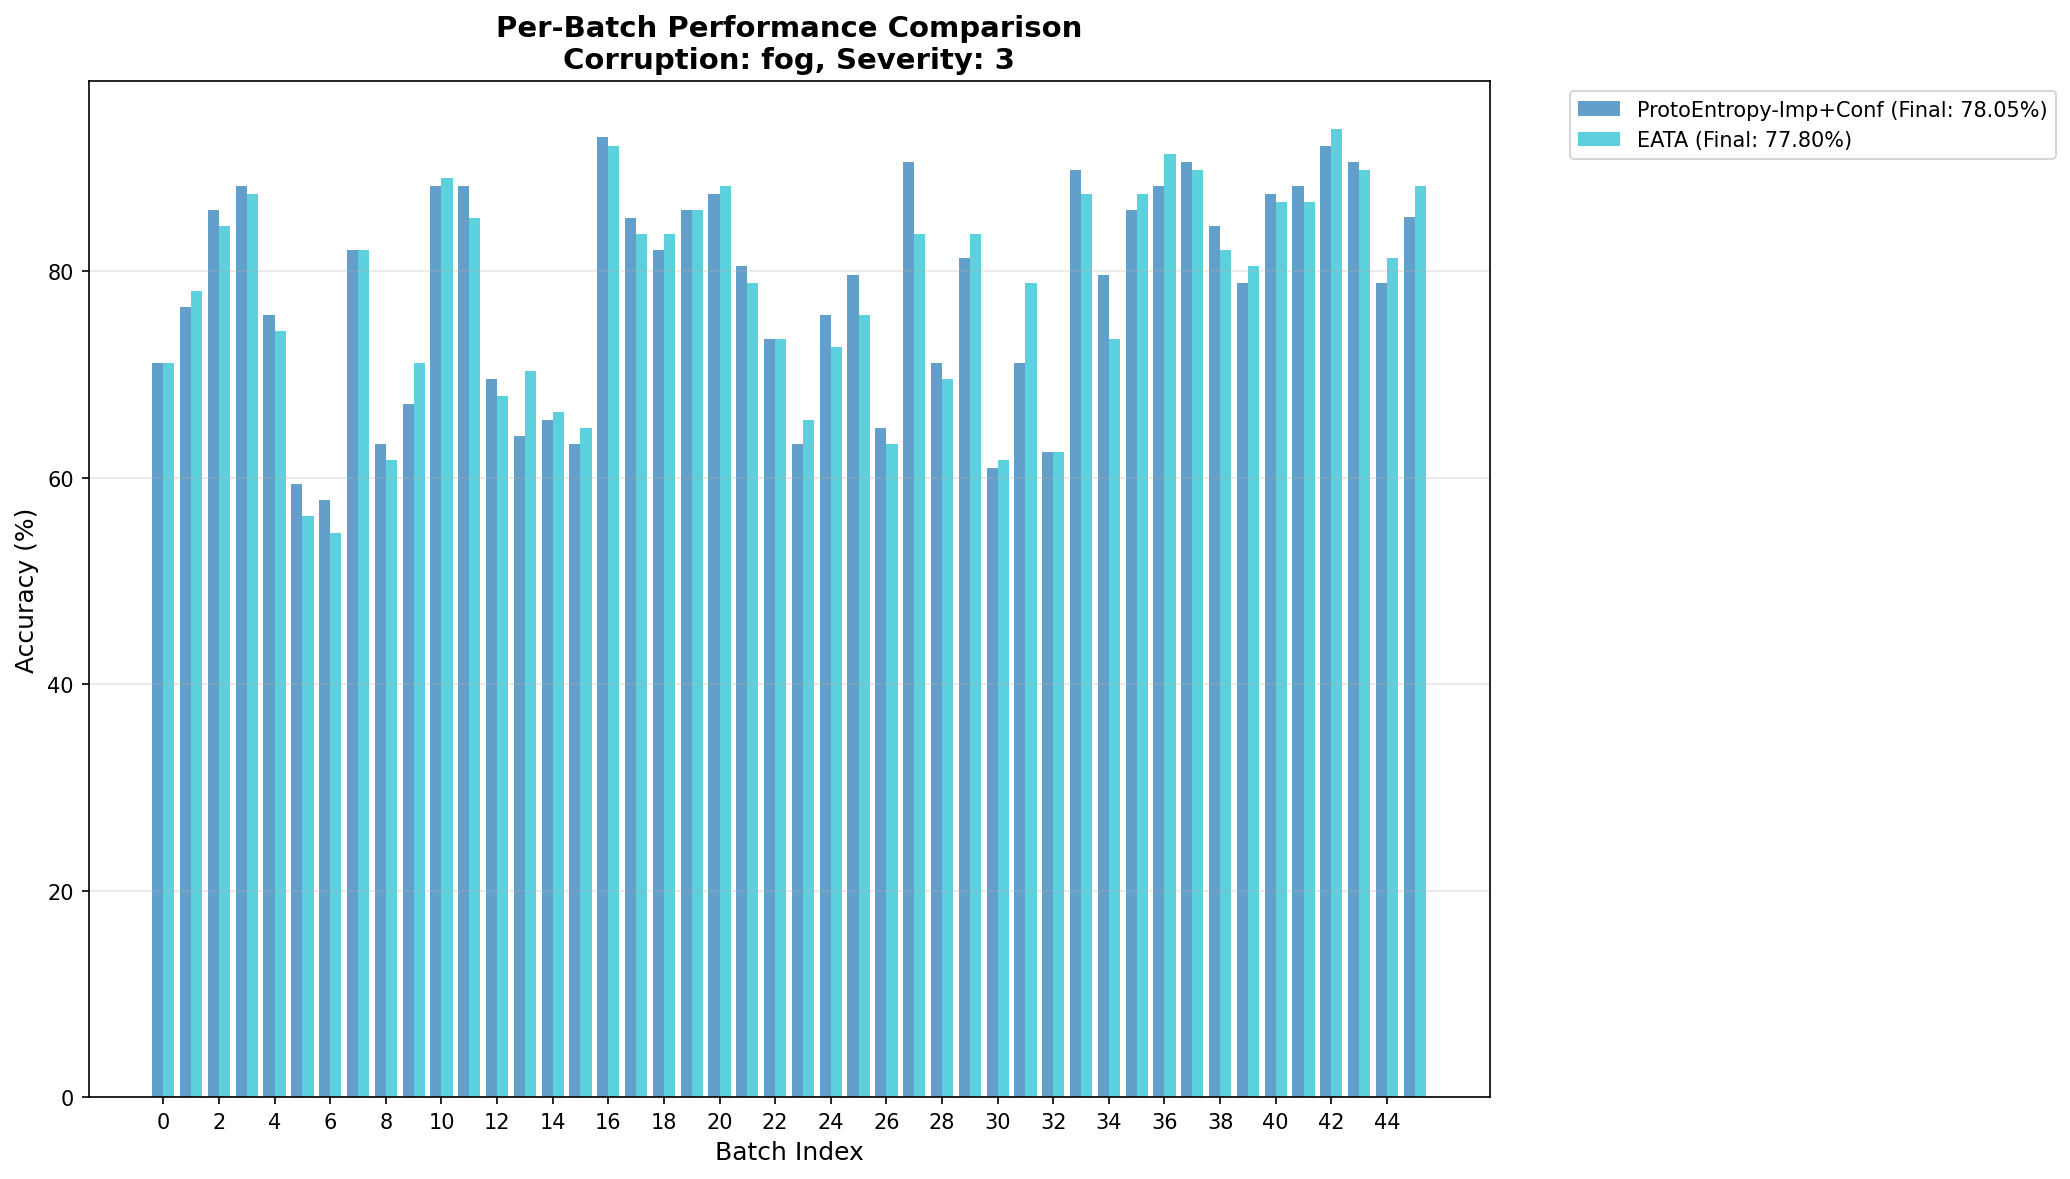
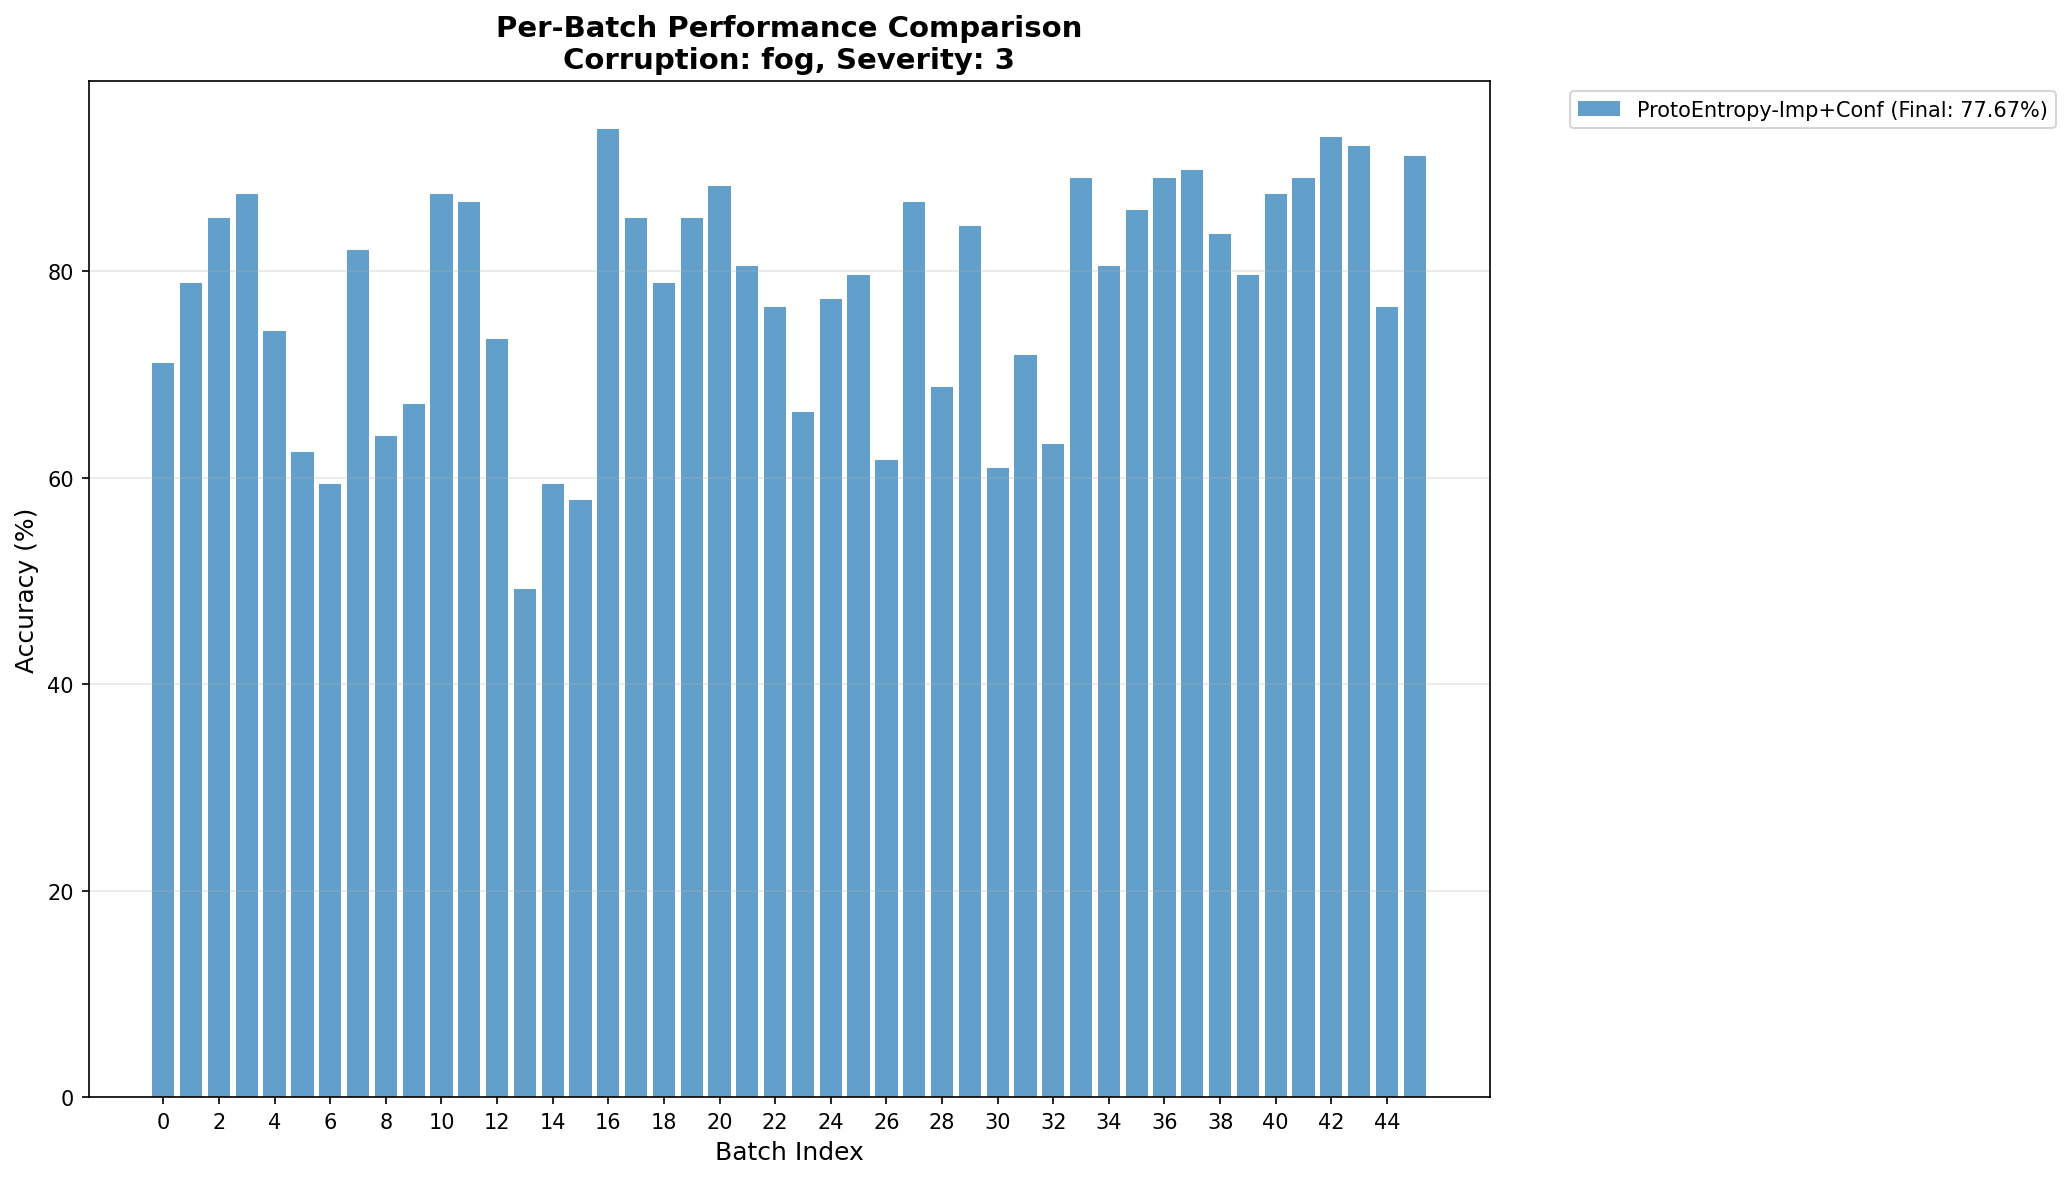
add modules

Changed region(s): [[0.0618, 0.0916, 0.7111, 0.9466], [0.742, 0.0916, 0.8966, 0.1221], [0.9585, 0.0916, 0.9894, 0.1221]]

diff --git a/run_inference.py b/run_inference.py
@@ -87,7 +87,8 @@ def setup_proto_entropy(model, use_importance=False, use_confidence=False,
                         confidence_threshold=0.7, ema_alpha=0.999,
                         use_geometric_filter=False, geo_filter_threshold=0.3,
                         consensus_strategy='max', consensus_ratio=0.5,
-                        adaptation_mode='layernorm_only'):
+                        adaptation_mode='layernorm_only',
+                        use_ensemble_entropy=False):
     """Set up Prototype Entropy adaptation (without threshold).
     
     Args:
@@ -101,6 +102,7 @@ def setup_proto_entropy(model, use_importance=False, use_confidence=False,
         consensus_strategy: How to aggregate sub-prototypes ('max', 'mean', 'median', 'top_k_mean', 'weighted_mean')
         consensus_ratio: For 'top_k_mean', fraction of sub-prototypes to use
         adaptation_mode: What parameters to adapt ('layernorm_only', 'layernorm_proto', etc.)
+        use_ensemble_entropy: Treat sub-prototypes as ensemble (compute entropy per sub-proto, then average)
     """
     model = proto_entropy.configure_model(model, adaptation_mode=adaptation_mode)
     params, param_names = proto_entropy.collect_params(model, adaptation_mode=adaptation_mode)
@@ -122,7 +124,8 @@ def setup_proto_entropy(model, use_importance=False, use_confidence=False,
         use_geometric_filter=use_geometric_filter,
         geo_filter_threshold=geo_filter_threshold,
         consensus_strategy=consensus_strategy,
-        consensus_ratio=consensus_ratio
+        consensus_ratio=consensus_ratio,
+        use_ensemble_entropy=use_ensemble_entropy
     )
     return proto_model
 
@@ -391,7 +394,8 @@ def run_unified_inference(model_path, gpu_id='0', corruption=None, severity=1, m
                          reset_mode=None, reset_frequency=10, confidence_threshold=0.7, ema_alpha=0.999,
                          use_geometric_filter=False, geo_filter_threshold=0.3, output_dir='./plots',
                          consensus_strategy='max', consensus_ratio=0.5,
-                         adaptation_mode='layernorm_only'):
+                         adaptation_mode='layernorm_only',
+                         use_ensemble_entropy=False):
     # Set GPU
     os.environ['CUDA_VISIBLE_DEVICES'] = gpu_id
     print(f'Using GPU: {os.environ["CUDA_VISIBLE_DEVICES"]}')
@@ -517,14 +521,16 @@ def run_unified_inference(model_path, gpu_id='0', corruption=None, severity=1, m
         filter_info = f", geo_filter={use_geometric_filter}" if use_geometric_filter else ""
         consensus_info = f", consensus={consensus_strategy}" if consensus_strategy != 'max' else ""
         adapt_info = f", adapt={adaptation_mode}" if adaptation_mode != 'layernorm_only' else ""
-        print(f"Setting up ProtoEntropy (reset_mode={reset_mode}, freq={reset_frequency} batches{filter_info}{consensus_info}{adapt_info})...")
+        ensemble_info = ", ensemble_entropy=True" if use_ensemble_entropy else ""
+        print(f"Setting up ProtoEntropy (reset_mode={reset_mode}, freq={reset_frequency} batches{filter_info}{consensus_info}{adapt_info}{ensemble_info})...")
         proto_model = setup_proto_entropy(base_model, use_importance=False, use_confidence=False,
                                          reset_mode=reset_mode, reset_frequency=reset_frequency,
                                          confidence_threshold=confidence_threshold, ema_alpha=ema_alpha,
                                          use_geometric_filter=use_geometric_filter, 
                                          geo_filter_threshold=geo_filter_threshold,
                                          consensus_strategy=consensus_strategy, consensus_ratio=consensus_ratio,
-                                         adaptation_mode=adaptation_mode)
+                                         adaptation_mode=adaptation_mode,
+                                         use_ensemble_entropy=use_ensemble_entropy)
 
         if hasattr(proto_model, 'reset_geo_filter_stats'):
             proto_model.reset_geo_filter_stats()
@@ -560,14 +566,16 @@ def run_unified_inference(model_path, gpu_id='0', corruption=None, severity=1, m
         filter_info = f", geo_filter={use_geometric_filter}" if use_geometric_filter else ""
         consensus_info = f", consensus={consensus_strategy}" if consensus_strategy != 'max' else ""
         adapt_info = f", adapt={adaptation_mode}" if adaptation_mode != 'layernorm_only' else ""
-        print(f"Setting up ProtoEntropy+Importance (reset_mode={reset_mode}, freq={reset_frequency}{filter_info}{consensus_info}{adapt_info})...")
+        ensemble_info = ", ensemble_entropy=True" if use_ensemble_entropy else ""
+        print(f"Setting up ProtoEntropy+Importance (reset_mode={reset_mode}, freq={reset_frequency}{filter_info}{consensus_info}{adapt_info}{ensemble_info})...")
         proto_model = setup_proto_entropy(base_model, use_importance=True, use_confidence=False,
                                          reset_mode=reset_mode, reset_frequency=reset_frequency,
                                          confidence_threshold=confidence_threshold, ema_alpha=ema_alpha,
                                          use_geometric_filter=use_geometric_filter, 
                                          geo_filter_threshold=geo_filter_threshold,
                                          consensus_strategy=consensus_strategy, consensus_ratio=consensus_ratio,
-                                         adaptation_mode=adaptation_mode)
+                                         adaptation_mode=adaptation_mode,
+                                         use_ensemble_entropy=use_ensemble_entropy)
 
         if hasattr(proto_model, 'reset_geo_filter_stats'):
             proto_model.reset_geo_filter_stats()
@@ -603,14 +611,16 @@ def run_unified_inference(model_path, gpu_id='0', corruption=None, severity=1, m
         filter_info = f", geo_filter={use_geometric_filter}" if use_geometric_filter else ""
         consensus_info = f", consensus={consensus_strategy}" if consensus_strategy != 'max' else ""
         adapt_info = f", adapt={adaptation_mode}" if adaptation_mode != 'layernorm_only' else ""
-        print(f"Setting up ProtoEntropy+Confidence (reset_mode={reset_mode}, freq={reset_frequency}{filter_info}{consensus_info}{adapt_info})...")
+        ensemble_info = ", ensemble_entropy=True" if use_ensemble_entropy else ""
+        print(f"Setting up ProtoEntropy+Confidence (reset_mode={reset_mode}, freq={reset_frequency}{filter_info}{consensus_info}{adapt_info}{ensemble_info})...")
         proto_model = setup_proto_entropy(base_model, use_importance=False, use_confidence=True,
                                          reset_mode=reset_mode, reset_frequency=reset_frequency,
                                          confidence_threshold=confidence_threshold, ema_alpha=ema_alpha,
                                          use_geometric_filter=use_geometric_filter, 
                                          geo_filter_threshold=geo_filter_threshold,
                                          consensus_strategy=consensus_strategy, consensus_ratio=consensus_ratio,
-                                         adaptation_mode=adaptation_mode)
+                                         adaptation_mode=adaptation_mode,
+                                         use_ensemble_entropy=use_ensemble_entropy)
 
         if hasattr(proto_model, 'reset_geo_filter_stats'):
             proto_model.reset_geo_filter_stats()
@@ -646,14 +656,16 @@ def run_unified_inference(model_path, gpu_id='0', corruption=None, severity=1, m
         filter_info = f", geo_filter={use_geometric_filter}" if use_geometric_filter else ""
         consensus_info = f", consensus={consensus_strategy}" if consensus_strategy != 'max' else ""
         adapt_info = f", adapt={adaptation_mode}" if adaptation_mode != 'layernorm_only' else ""
-        print(f"Setting up ProtoEntropy Imp+Conf (reset_mode={reset_mode}, freq={reset_frequency}{filter_info}{consensus_info}{adapt_info})...")
+        ensemble_info = ", ensemble_entropy=True" if use_ensemble_entropy else ""
+        print(f"Setting up ProtoEntropy Imp+Conf (reset_mode={reset_mode}, freq={reset_frequency}{filter_info}{consensus_info}{adapt_info}{ensemble_info})...")
         proto_model = setup_proto_entropy(base_model, use_importance=True, use_confidence=True,
                                          reset_mode=reset_mode, reset_frequency=reset_frequency,
                                          confidence_threshold=confidence_threshold, ema_alpha=ema_alpha,
                                          use_geometric_filter=use_geometric_filter, 
                                          geo_filter_threshold=geo_filter_threshold,
                                          consensus_strategy=consensus_strategy, consensus_ratio=consensus_ratio,
-                                         adaptation_mode=adaptation_mode)
+                                         adaptation_mode=adaptation_mode,
+                                         use_ensemble_entropy=use_ensemble_entropy)
 
         # Reset stats before evaluation
         if hasattr(proto_model, 'reset_geo_filter_stats'):
@@ -1074,6 +1086,14 @@ if __name__ == '__main__':
              'all_adaptive - Everything except backbone features'
     )
     
+    parser.add_argument(
+        '--use-ensemble-entropy',
+        action='store_true',
+        default=False,
+        help='Use ensemble entropy: compute entropy for each sub-prototype independently, then average. '
+             'Prevents single overconfident sub-prototype from dominating (requires sub-prototypes).'
+    )
+    
     args = parser.parse_args()
     
     # Handle no-corruption flag
@@ -1091,4 +1111,5 @@ if __name__ == '__main__':
                          use_pre_generated, args.use_clean_fisher, args.proto_threshold,
                          args.reset_mode, args.reset_frequency, args.confidence_threshold, args.ema_alpha,
                          args.use_geometric_filter, args.geo_filter_threshold, args.output_dir,
-                         args.consensus_strategy, args.consensus_ratio, args.adaptation_mode)
+                         args.consensus_strategy, args.consensus_ratio, args.adaptation_mode,
+                         args.use_ensemble_entropy)

diff --git a/proto_entropy.py b/proto_entropy.py
@@ -11,7 +11,8 @@ class ProtoEntropy(nn.Module):
                  reset_mode=None, reset_frequency=10, 
                  confidence_threshold=0.7, ema_alpha=0.999,
                  use_geometric_filter=False, geo_filter_threshold=0.3,
-                 consensus_strategy='max', consensus_ratio=0.5):
+                 consensus_strategy='max', consensus_ratio=0.5,
+                 use_ensemble_entropy=False):
         """
         Args:
             episodic: If True, uses 'episodic' reset_mode (backward compatibility)
@@ -33,6 +34,8 @@ class ProtoEntropy(nn.Module):
                                'top_k_mean' - average of top-K sub-prototypes (soft consensus)
                                'weighted_mean' - similarity-weighted mean (high sims matter more)
             consensus_ratio: For 'top_k_mean', what fraction of sub-prototypes to use (default: 0.5 = top 50%)
+            use_ensemble_entropy: If True, treat sub-prototypes as ensemble: compute entropy per sub-proto, then average
+                                 If False, aggregate sub-protos first, then compute entropy (default)
         """
         super().__init__()
         self.model = model
@@ -52,6 +55,9 @@ class ProtoEntropy(nn.Module):
         # Consensus strategy parameters
         self.consensus_strategy = consensus_strategy
         self.consensus_ratio = consensus_ratio
+        
+        # Ensemble entropy parameter
+        self.use_ensemble_entropy = use_ensemble_entropy
         
         # New reset mechanism parameters
         # If reset_mode not specified, infer from episodic flag for backward compatibility
@@ -297,16 +303,41 @@ class ProtoEntropy(nn.Module):
         sample_weights = reliable_mask.unsqueeze(1)  # [B, 1]
 
         # ========== PART A: Target Entropy Loss ==========
-        masked_sims = sim_scores * target_mask
-        masked_sims = torch.clamp(masked_sims, min=-1.0, max=1.0)
-        proto_probs = (masked_sims + 1.0) / 2.0
-
         eps = 1e-6
-        proto_probs = torch.clamp(proto_probs, min=eps, max=1-eps)
-
-        # Minimize Binary Entropy for target prototypes
-        entropy = -(proto_probs * torch.log(proto_probs) + 
-                   (1 - proto_probs) * torch.log(1 - proto_probs))
+        
+        # --- NEW: Ensemble Entropy (Voting across sub-prototypes) ---
+        if self.use_ensemble_entropy and similarities.dim() == 3:
+            # Treat each sub-prototype as a weak classifier
+            # Compute entropy for each sub-prototype, then average
+            # similarities: [B, P, K]
+            
+            # Apply target mask at sub-prototype level: [B, P, K]
+            target_mask_3d = target_mask.unsqueeze(-1)  # [B, P, 1]
+            masked_sims_3d = similarities * target_mask_3d  # [B, P, K]
+            masked_sims_3d = torch.clamp(masked_sims_3d, min=-1.0, max=1.0)
+            
+            # Convert each sub-prototype similarity to probability
+            proto_probs_3d = (masked_sims_3d + 1.0) / 2.0  # [B, P, K]
+            proto_probs_3d = torch.clamp(proto_probs_3d, min=eps, max=1-eps)
+            
+            # Compute entropy for EACH sub-prototype independently
+            entropy_per_subproto = -(proto_probs_3d * torch.log(proto_probs_3d) + 
+                                     (1 - proto_probs_3d) * torch.log(1 - proto_probs_3d))  # [B, P, K]
+            
+            # Average entropies across sub-prototypes (ensemble)
+            # This prevents a single overconfident sub-prototype from dominating
+            entropy = entropy_per_subproto.mean(dim=2)  # [B, P]
+            
+        else:
+            # Original: Aggregate first, then compute entropy
+            masked_sims = sim_scores * target_mask
+            masked_sims = torch.clamp(masked_sims, min=-1.0, max=1.0)
+            proto_probs = (masked_sims + 1.0) / 2.0
+            proto_probs = torch.clamp(proto_probs, min=eps, max=1-eps)
+            
+            # Minimize Binary Entropy for target prototypes
+            entropy = -(proto_probs * torch.log(proto_probs) + 
+                       (1 - proto_probs) * torch.log(1 - proto_probs))  # [B, P]
         
         # --- Prototype Importance Weighting ---
         if self.use_prototype_importance:
